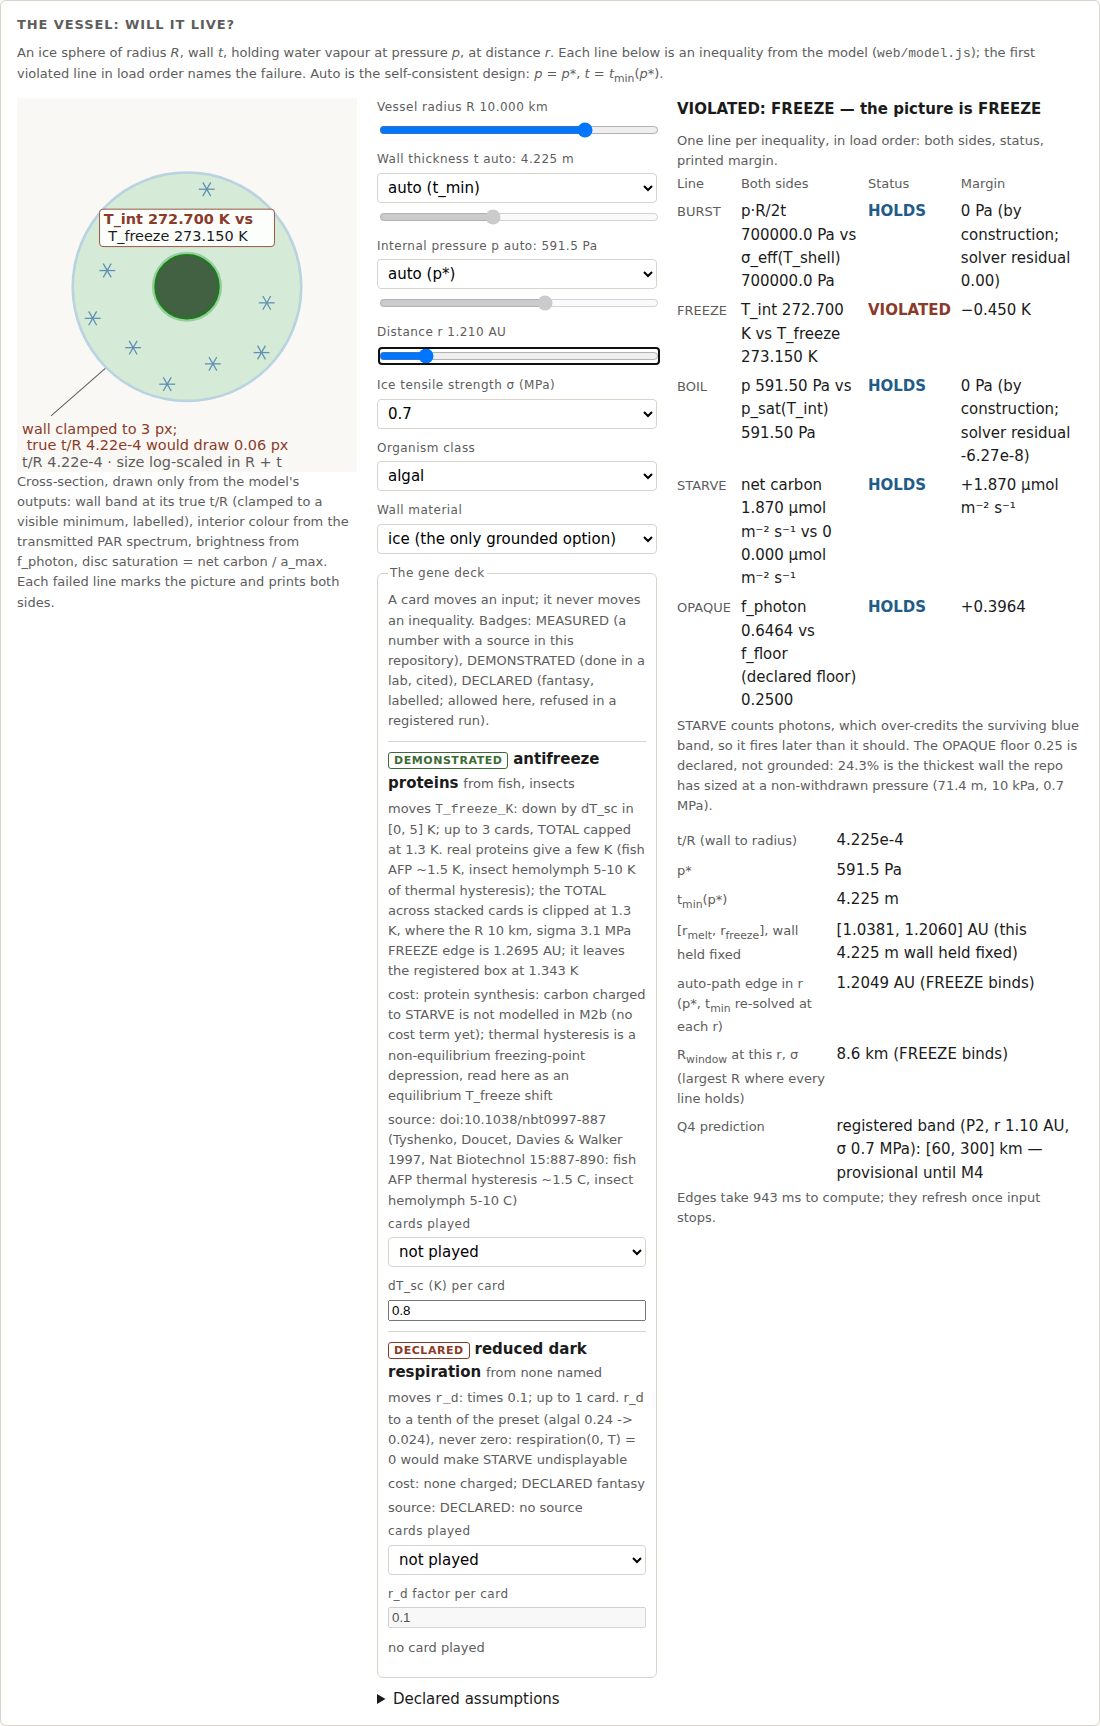
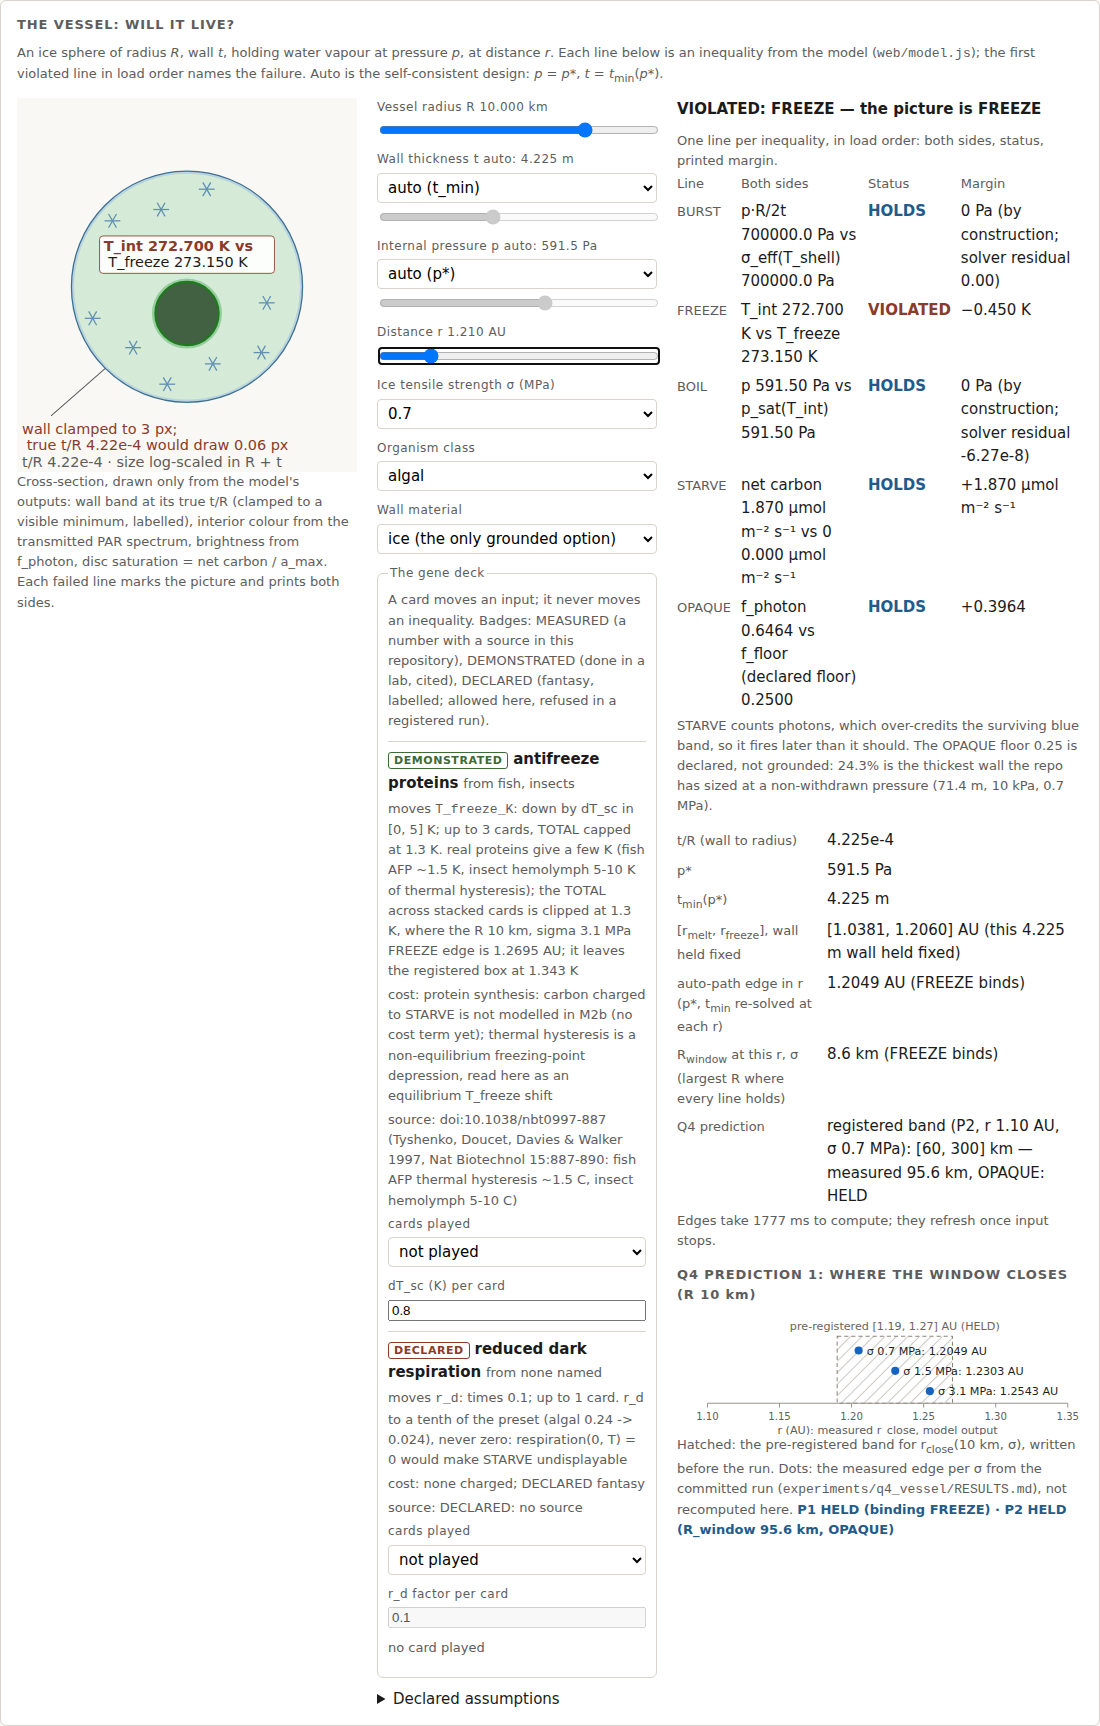
polish(m3 picture): BOIL drawn as vapour and bubbles, OPAQUE as a light gauge (f_photon arc vs declared f_floor tick), interior plates laid out clear of the wall band (adaptive wrap; disc moves below the stack when it cannot stay centred), plates kept 12 units inside the picture, rim outlined; smoke

diff --git a/web/picture.js b/web/picture.js
@@ -28,10 +28,13 @@
     PLATE_GAP = 10, // units between the organism disc and a plate
     KEEP_PAD = 3, // units every mark keeps clear of a plate
     WRAP = 20,
+    MARGIN = 12, // every plate keeps this far inside the picture's edge
+    FIT_PAD = 14, // interior plates keep this far inside the wall (the OPAQUE gauge runs there)
     CLAMP_Y = 378;
   var NS = "http://www.w3.org/2000/svg";
   var BG = "#faf8f4",
     INK = "#1b1b1b",
+    RIM = "#3d6f8e", // outer-circle outline: the vessel edge against the page
     MUTED = "#5d5d5d",
     FAIL = "#8a3b2a";
 
@@ -135,11 +138,12 @@
 
   // Break text into lines of <= WRAP chars at spaces; each later line keeps its leading
   // space, so the concatenated textContent is exactly the input (the panel's string).
-  function wrap(text) {
+  function wrap(text, n) {
+    n = n || WRAP;
     var out = [],
       cur = "";
     text.split(/(?= )/).forEach(function (w) {
-      if (cur && (cur + w).length > WRAP) {
+      if (cur && (cur + w).length > n) {
         out.push(cur);
         cur = w;
       } else cur += w;
@@ -150,8 +154,8 @@
 
   // The killing text: first line (the violated side) bold in the failure colour.
   // (x, y) is the top-left for anchor "start", top-right for "end", top-centre for "middle".
-  function label(parent, x, y, anchor, text, plate) {
-    var lines = wrap(text);
+  function label(parent, x, y, anchor, text, plate, n) {
+    var lines = wrap(text, n);
     var wmax = Math.max.apply(null, lines.map(function (l) { return l.trim().length; }));
     var w = wmax * FS * 0.64 + 10,
       h = lines.length * LH + 6;
@@ -172,20 +176,49 @@
   }
 
   // plate size for a text, before anything is drawn (marks are clipped around it)
-  function plateSize(text) {
-    var lines = wrap(text);
+  function plateSize(text, n) {
+    var lines = wrap(text, n);
     var wmax = Math.max.apply(null, lines.map(function (l) { return l.trim().length; }));
     return { w: wmax * FS * 0.64 + 10, h: lines.length * LH + 6 };
   }
-  // an interior wound's plate: centred above the disc with a gap, stacked upward by slot
-  function interiorBox(geo, text, slot) {
-    var sz = plateSize(text);
-    var y1 = CY - geo.rOrg - PLATE_GAP - slot * (sz.h + 6);
-    return { x0: CX - sz.w / 2, y0: y1 - sz.h, x1: CX + sz.w / 2, y1: y1 };
+  // Interior plates: one stack, centred on x, inside the interior clear of the wall band by
+  // FIT_PAD. The disc stays at the centre when the stack fits above it; otherwise the stack
+  // rises as high as the widest plate's corners allow and the disc moves down beneath it.
+  // Returns {boxes: {line: box}, oy: disc centre y}.
+  function layoutInterior(ri, rOrg, names, texts) {
+    if (!names.length) return { boxes: {}, oy: CY, wrap: WRAP };
+    var rf = ri - FIT_PAD, best = null;
+    // the widest wrap whose stack and disc both fit; narrower wraps trade width for height
+    for (var n = WRAP; n >= 10 && !(best && best.fits); n--) best = stackAt(n);
+    return best;
+
+    function stackAt(n) {
+      var sz = names.map(function (k) { return plateSize(texts[k], n); });
+      var Hs = sz.reduce(function (a, z) { return a + z.h; }, 0) + 6 * (sz.length - 1);
+      var Ws = Math.max.apply(null, sz.map(function (z) { return z.w; }));
+      var a = rf > Ws / 2 ? Math.sqrt(rf * rf - (Ws * Ws) / 4) : 0; // highest top the corners allow
+      var centred = rOrg + PLATE_GAP + Hs; // top height above centre with the disc left centred
+      var top, oy;
+      if (centred <= a) {
+        top = CY - centred;
+        oy = CY;
+      } else {
+        top = CY - a;
+        oy = top + Hs + PLATE_GAP + rOrg;
+      }
+      var bot = top + Hs - CY; // stack bottom below centre
+      var fits = Ws / 2 < rf && Math.hypot(Ws / 2, bot) <= rf && oy + rOrg <= CY + ri - 4;
+      var boxes = {}, y = top;
+      names.forEach(function (k, i) {
+        boxes[k] = { x0: CX - sz[i].w / 2, y0: y, x1: CX + sz[i].w / 2, y1: y + sz[i].h };
+        y += sz[i].h + 6;
+      });
+      return { boxes: boxes, oy: oy, wrap: n, fits: fits };
+    }
   }
-  function interiorLabel(g, geo, text, slot) {
-    var b = interiorBox(geo, text, slot);
-    label(g, CX, b.y0 + 2, "middle", text, true);
+  function interiorLabel(g, geo, text, n) {
+    var b = geo.boxes[n];
+    label(g, CX, b.y0 + 2, "middle", text, true, geo.wrap);
   }
   // the parts of segment ab outside every keep-out rect (padded), for marks near a plate
   function outside(a, b, rects) {
@@ -249,17 +282,17 @@
         }
         segs(g, p, { stroke: FAIL, "stroke-width": 2, "stroke-linecap": "round" }, geo.keep);
       });
-      var b = label(g, W - 4, 6, "end", text, true);
+      var b = label(g, W - MARGIN, MARGIN, "end", text, true);
       var from = pt(r1 + 26, a);
       el("line", { x1: P2(from).split(",")[0], y1: P2(from).split(",")[1],
         x2: (b.x0 + b.w / 2).toFixed(1), y2: (b.y0 + b.h).toFixed(1), stroke: FAIL, "stroke-width": 1.5 }, g);
     },
     // frost at the wall, inward to the disc's edge: it never covers the organism
-    FREEZE: function (g, geo, text, slot) {
+    FREEZE: function (g, geo, text, n) {
       var inner = geo.rOrg + 4;
       el("path", {
         d: "M" + (CX - geo.ri) + "," + CY + " a" + geo.ri + "," + geo.ri + " 0 1,0 " + 2 * geo.ri + ",0 a" +
-          geo.ri + "," + geo.ri + " 0 1,0 " + -2 * geo.ri + ",0 Z M" + (CX - inner) + "," + CY + " a" + inner + "," +
+          geo.ri + "," + geo.ri + " 0 1,0 " + -2 * geo.ri + ",0 Z M" + (CX - inner) + "," + geo.oy + " a" + inner + "," +
           inner + " 0 1,1 " + 2 * inner + ",0 a" + inner + "," + inner + " 0 1,1 " + -2 * inner + ",0 Z",
         fill: "#ffffff", "fill-opacity": 0.6, "fill-rule": "evenodd", "data-mark": "frost",
       }, g);
@@ -277,38 +310,55 @@
             stroke: "#5f8fb3", "stroke-width": 1.5 }, g);
         }
       }
-      interiorLabel(g, geo, text, slot);
+      interiorLabel(g, geo, text, n);
     },
-    // dried: a cracked tan floor around the disc
-    BOIL: function (g, geo, text, slot) {
-      el("circle", { cx: CX, cy: CY, r: geo.ri, fill: "#b89a64", "fill-opacity": 0.75, "data-mark": "dry" }, g);
-      for (var i = 0; i < 9; i++) {
-        var a = (i * 2 * Math.PI) / 9 + 0.3;
-        segs(g, [pt(geo.rOrg + 3, a), pt(geo.ri * 0.6, a + 0.12), pt(geo.ri * 0.97, a)],
-          { stroke: "#6b5431", "stroke-width": 1.5 }, geo.keep);
+    // boiling off: a warm vapour haze with rising bubbles (round, open marks: nothing here
+    // reads as a crack, which is BURST's mark)
+    BOIL: function (g, geo, text, n) {
+      el("circle", { cx: CX, cy: CY, r: geo.ri, fill: "#f3e3c4", "fill-opacity": 0.7, "data-mark": "vapour" }, g);
+      var bg = el("g", { "data-mark": "bubbles" }, g);
+      for (var i = 0; i < 26; i++) {
+        var a = i * 2.39996, // golden-angle scatter over the interior
+          rr = geo.ri * (0.25 + 0.68 * Math.sqrt(((i * 7) % 26) / 25)),
+          p = pt(rr, a),
+          s = 3 + (i % 4) * 2;
+        var clear = Math.hypot(p[0] - CX, p[1] - CY) + s < geo.ri - 2 &&
+          Math.hypot(p[0] - CX, p[1] - geo.oy) > geo.rOrg + s + 4 &&
+          !geo.keep.some(function (R) {
+            return p[0] + s + KEEP_PAD > R.x0 && p[0] - s - KEEP_PAD < R.x1 && p[1] + s + KEEP_PAD > R.y0 && p[1] - s - KEEP_PAD < R.y1;
+          });
+        if (clear)
+          el("circle", { cx: p[0].toFixed(1), cy: p[1].toFixed(1), r: s, fill: "none", stroke: "#b5651d",
+            "stroke-width": 1.8 }, bg);
       }
-      interiorLabel(g, geo, text, slot);
+      interiorLabel(g, geo, text, n);
     },
     // the disc fades (draw() lowers its opacity); a dashed ring marks it
-    STARVE: function (g, geo, text, slot) {
-      el("circle", { cx: CX, cy: CY, r: geo.rOrg + 5, fill: "none", stroke: FAIL, "stroke-dasharray": "4 3",
+    STARVE: function (g, geo, text, n) {
+      el("circle", { cx: CX, cy: geo.oy, r: geo.rOrg + 5, fill: "none", stroke: FAIL, "stroke-dasharray": "4 3",
         "stroke-width": 1.5, "data-mark": "fade-ring" }, g);
-      interiorLabel(g, geo, text, slot);
+      interiorLabel(g, geo, text, n);
     },
-    // under its own wall: a veil with hatching, and a ring for the declared floor
-    OPAQUE: function (g, geo, text, slot) {
+    // under its own wall: a veil, and a light gauge just inside the wall: the amber arc runs
+    // clockwise from 12 o'clock for f_photon of the turn, the white tick stands at the declared
+    // f_floor; the arc stopping short of the tick is the failure
+    OPAQUE: function (g, geo, text, n, rep) {
       el("circle", { cx: CX, cy: CY, r: geo.ri, fill: "#000000", "fill-opacity": 0.35, "data-mark": "veil" }, g);
-      // hatch in a light amber at reduced opacity, so it reads against the dark veil
-      var hg = el("g", { "data-mark": "hatch" }, g);
-      for (var d = -geo.ri + 10; d < geo.ri; d += 14) {
-        var c = Math.sqrt(geo.ri * geo.ri - d * d); // half-chord at offset d along the 45° normal
-        var S = Math.SQRT1_2;
-        segs(hg, [[CX + d * S - c * S, CY + d * S + c * S], [CX + d * S + c * S, CY + d * S - c * S]],
-          { stroke: "#f2c86a", "stroke-opacity": 0.6, "stroke-width": 1.5 }, geo.keep);
-      }
+      var rg = geo.ri - 7,
+        f = Math.max(0, Math.min(1, rep.lines.OPAQUE.lhs)),
+        ff = Math.max(0, Math.min(1, rep.lines.OPAQUE.rhs));
+      var arc = function (f0, f1) {
+        var pts = [], k = Math.max(2, Math.ceil((f1 - f0) * 96));
+        for (var i = 0; i <= k; i++) pts.push(pt(rg, -Math.PI / 2 + 2 * Math.PI * (f0 + ((f1 - f0) * i) / k)));
+        return pts;
+      };
+      var gg = el("g", { "data-mark": "light-gauge" }, g);
+      segs(gg, arc(0, 1), { stroke: "#d8d2c4", "stroke-opacity": 0.75, "stroke-width": 2 }, geo.keep);
+      segs(gg, arc(0, f), { stroke: "#ffb000", "stroke-width": 6, "stroke-linecap": "butt" }, geo.keep);
       var fr = el("g", { "data-mark": "floor-ring" }, g);
-      ring(fr, geo.ri - 4, { stroke: "#f2c86a", "stroke-width": 2.5 }, geo.keep);
-      interiorLabel(g, geo, text, slot);
+      var af = -Math.PI / 2 + 2 * Math.PI * ff;
+      segs(fr, [pt(rg - 9, af), pt(rg + 5, af)], { stroke: "#ffffff", "stroke-width": 3 }, geo.keep);
+      interiorLabel(g, geo, text, n);
     },
   };
 
@@ -329,12 +379,10 @@
     var clamped = ro - riTrue < MIN_BAND_PX;
     var ri = clamped ? ro - MIN_BAND_PX : riTrue;
     var rOrg = Math.max(6, 0.28 * ri);
-    var geo = { ro: ro, ri: ri, rOrg: rOrg };
     var bad = rep.violated.slice();
-    var ks = 0;
-    geo.keep = bad
-      .filter(function (n) { return n !== "BURST"; })
-      .map(function (n) { return interiorBox(geo, texts[n], ks++); });
+    var lay = layoutInterior(ri, rOrg, bad.filter(function (n) { return n !== "BURST"; }), texts);
+    var geo = { ro: ro, ri: ri, rOrg: rOrg, oy: lay.oy, boxes: lay.boxes, wrap: lay.wrap };
+    geo.keep = Object.keys(lay.boxes).map(function (n) { return lay.boxes[n]; });
     svg.setAttribute("viewBox", "0 0 " + W + " " + H);
 
     el("title", {}, svg, "Cross-section of the vessel");
@@ -346,23 +394,23 @@
         "; " + (bad.length ? "violated: " + bad.join(", ") : "every line holds") + ".");
 
     var rgb = interiorColour(res);
-    el("circle", { id: "pic-outer", cx: CX, cy: CY, r: ro.toFixed(4), fill: "#b9d3e3" }, svg);
+    el("circle", { id: "pic-outer", cx: CX, cy: CY, r: ro.toFixed(4), fill: "#b9d3e3", stroke: RIM,
+      "stroke-width": 1.5 }, svg);
     el("circle", { id: "pic-inner", cx: CX, cy: CY, r: ri.toFixed(4),
       fill: "rgb(" + rgb[0] + ", " + rgb[1] + ", " + rgb[2] + ")" }, svg);
 
     // overlays sit under the organism, so no mark recolours the disc
     var g = el("g", { id: "pic-overlays" }, svg);
-    var slot = 0;
     bad.forEach(function (n) {
       var fn = DRAW[n];
       if (!fn) throw new Error("picture: no overlay for line " + n);
       var og = el("g", { id: "pic-ov-" + n, "data-line": n }, g);
-      fn(og, geo, texts[n], n === "BURST" ? 0 : slot++);
+      fn(og, geo, texts[n], n, rep);
     });
 
     var net = rep.lines.STARVE.lhs;
     var sat = Math.max(0, Math.min(1, net / res.org.a_max));
-    el("circle", { id: "pic-organism", cx: CX, cy: CY, r: rOrg.toFixed(2),
+    el("circle", { id: "pic-organism", cx: CX, cy: geo.oy.toFixed(2), r: rOrg.toFixed(2),
       fill: "hsl(120, " + (100 * sat).toFixed(1) + "%, 32%)",
       stroke: net > 0 ? "#1f7a1f" : "#8a8a8a", "stroke-width": 2.5,
       "fill-opacity": rep.lines.STARVE.violated ? 0.35 : 1,

diff --git a/tools/smoke_page.py b/tools/smoke_page.py
@@ -564,8 +564,10 @@ def exercise_picture(page, label: str, shoot: bool) -> None:
                 add(e, e.getAttribute('points').trim().split(/\\s+/).map(p => p.split(',').map(Number))));
               const rings = [...svg.querySelectorAll('#pic-overlays circle')].filter(c => c.getAttribute('fill') === 'none')
                 .map(c => ({id: c.parentNode.id + ':ring', cx: n(c,'cx'), cy: n(c,'cy'), r: n(c,'r')}));
-              const o = document.getElementById('pic-organism');
-              return {plates, segs, rings, disc: {cx: n(o,'cx'), cy: n(o,'cy'), r: n(o,'r')}}; }"""
+              const o = document.getElementById('pic-organism'), inn = document.getElementById('pic-inner');
+              const vb = svg.viewBox.baseVal;
+              return {plates, segs, rings, disc: {cx: n(o,'cx'), cy: n(o,'cy'), r: n(o,'r')},
+                      inner: {cx: n(inn,'cx'), cy: n(inn,'cy'), r: n(inn,'r')}, vb: {w: vb.width, h: vb.height}}; }"""
         )
 
         def seg_hits(a, b, R):
@@ -595,6 +597,17 @@ def exercise_picture(page, label: str, shoot: bool) -> None:
         hits = [f"{s_['id']} x plate {R['owner']}" for R in g["plates"] for s_ in g["segs"] if seg_hits(s_["a"], s_["b"], R)]
         hits += [f"{c['id']} x plate {R['owner']}" for R in g["plates"] for c in g["rings"] if ring_hits(c, R)]
         check(not hits, f"[{label}] {tag}: no overlay mark or leader crosses a label plate: {sorted(set(hits))[:6]}")
+        # polish item 7: every plate keeps a margin inside the picture's edge
+        for R in g["plates"]:
+            m_ = min(R["x0"], R["y0"], g["vb"]["w"] - R["x1"], g["vb"]["h"] - R["y1"])
+            check(m_ >= 8, f"[{label}] {tag}: plate {R['owner']} keeps >= 8 units inside the picture edge ({m_:.1f})")
+        # polish item 6: an interior plate lies inside the interior, clear of the wall band
+        I = g["inner"]
+        for R in g["plates"]:
+            if R["owner"] == "pic-ov-BURST":
+                continue
+            far = max(((x - I["cx"]) ** 2 + (y - I["cy"]) ** 2) ** 0.5 for x in (R["x0"], R["x1"]) for y in (R["y0"], R["y1"]))
+            check(far <= I["r"] - 3, f"[{label}] {tag}: plate {R['owner']} clear of the wall band (corner at {far:.1f}, interior {I['r']:.1f})")
         d = g["disc"]
         for R in g["plates"]:
             if R["owner"] == "pic-ov-BURST":
